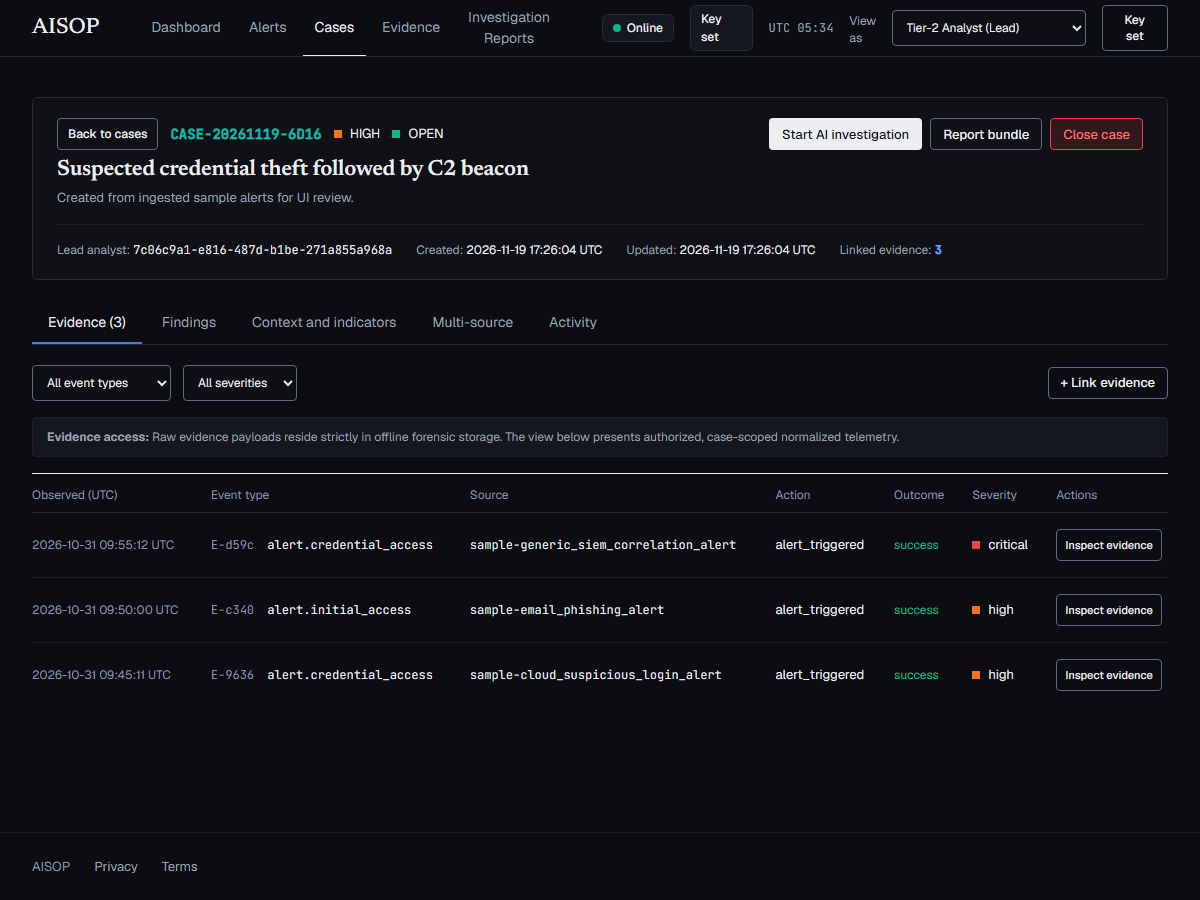
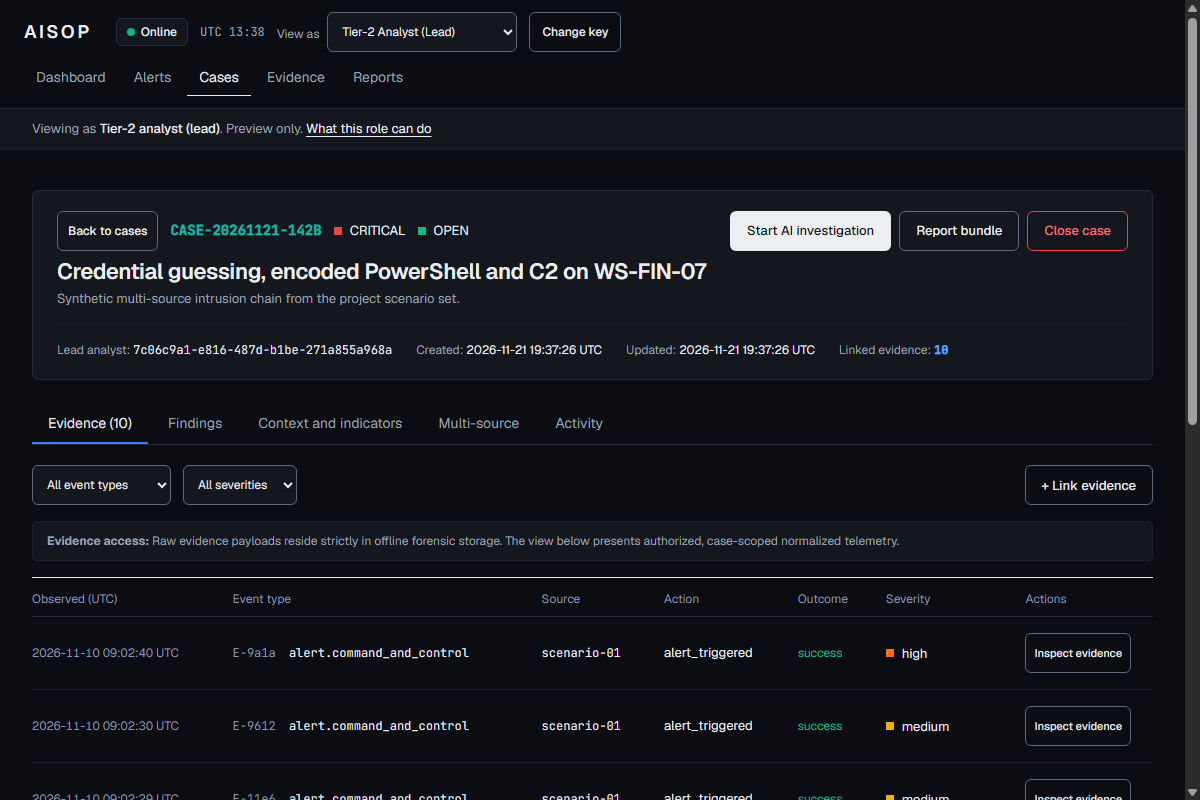
feat: show the lead analyst's name on the case workspace; refresh the landing preview
Case detail now returns lead_analyst_username (set on detail only; people with access already see who leads
the case) and the workspace shows it instead of a raw UUID, with the id kept as a tooltip. The landing page
preview image is recaptured from the current build.

diff --git a/frontend/src/components/InvestigationWorkspace.tsx b/frontend/src/components/InvestigationWorkspace.tsx
@@ -413,7 +413,10 @@ export const InvestigationWorkspace: React.FC<InvestigationWorkspaceProps> = ({
           }}
         >
           <div>
-            Lead analyst: <span className="font-mono" style={{ color: 'var(--text-primary)' }}>{caseDetail.lead_analyst_id}</span>
+            Lead analyst:{' '}
+            <span style={{ color: 'var(--text-primary)' }} title={caseDetail.lead_analyst_id}>
+              {caseDetail.lead_analyst_username ?? caseDetail.lead_analyst_id}
+            </span>
           </div>
           <div>
             Created: <span style={{ color: 'var(--text-primary)' }}>{formatUtc(caseDetail.created_at)}</span>

diff --git a/frontend/src/types/index.ts b/frontend/src/types/index.ts
@@ -77,6 +77,8 @@ export interface CaseResponse {
   severity: CaseSeverity;
   status: CaseStatus;
   lead_analyst_id: string;
+  /** Set on case detail by the server; absent on list and write responses. */
+  lead_analyst_username?: string | null;
   created_at: string;
   updated_at: string;
   closed_at: string | null;

diff --git a/backend/tests/unit/test_case_api.py b/backend/tests/unit/test_case_api.py
@@ -351,6 +351,23 @@ class TestCaseDetailAndAntiEnumeration:
     """Verify anti-enumeration: missing and unassigned cases return identical 404."""
 
     @pytest.mark.anyio
+    async def test_case_detail_shows_the_lead_analyst_name_not_only_an_id(self, app_instance, db_session):
+        token, analyst = await seed_analyst_with_token(
+            db_session, prefix="leadname11111111", username="dana_lead", global_role="analyst_tier_2"
+        )
+        transport = httpx.ASGITransport(app=app_instance)
+        async with httpx.AsyncClient(transport=transport, base_url="http://test") as client:
+            created = await client.post(
+                "/api/v1/cases", headers={"Authorization": f"Bearer {token}"}, json={"title": "Lead name case", "severity": "low"}
+            )
+            case_id = created.json()["id"]
+            detail = await client.get(f"/api/v1/cases/{case_id}", headers={"Authorization": f"Bearer {token}"})
+            assert detail.status_code == status.HTTP_200_OK
+            body = detail.json()
+            assert body["lead_analyst_id"] == str(analyst.id)
+            assert body["lead_analyst_username"] == "dana_lead"
+
+    @pytest.mark.anyio
     async def test_case_detail_anti_enumeration(self, app_instance, db_session):
         token_assigned, assigned_analyst = await seed_analyst_with_token(
             db_session, prefix="detailauth11111", username="assigned_user"

diff --git a/backend/app/schemas/case.py b/backend/app/schemas/case.py
@@ -190,6 +190,10 @@ class CaseResponse(BaseModel):
     severity: CaseSeverity = Field(description="Case severity")
     status: CaseStatus = Field(description="Current lifecycle status")
     lead_analyst_id: uuid.UUID = Field(description="Current lead analyst UUID")
+    lead_analyst_username: str | None = Field(
+        default=None,
+        description="Username of the current lead analyst. Set on case detail only; people with access to the case already see who leads it.",
+    )
     created_at: datetime = Field(description="Case creation timestamp (UTC)")
     updated_at: datetime = Field(description="Last metadata update timestamp (UTC)")
     closed_at: datetime | None = Field(default=None, description="Closure timestamp if terminal")

diff --git a/backend/app/services/case_service.py b/backend/app/services/case_service.py
@@ -573,6 +573,7 @@ class CaseService:
             if (case.closed_at is None or case.closed_at.tzinfo)
             else case.closed_at.replace(tzinfo=timezone.utc)
         )
+        lead_row = (await session.execute(select(Analyst.username).where(Analyst.id == lead_id))).scalars().first()
 
         return CaseResponse(
             id=case.id,
@@ -582,6 +583,7 @@ class CaseService:
             severity=CaseSeverity(case.severity),
             status=CaseStatus(case.status),
             lead_analyst_id=lead_id,
+            lead_analyst_username=lead_row,
             created_at=created,
             updated_at=updated,
             closed_at=closed,
